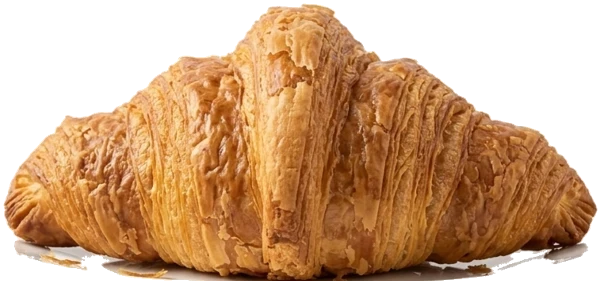
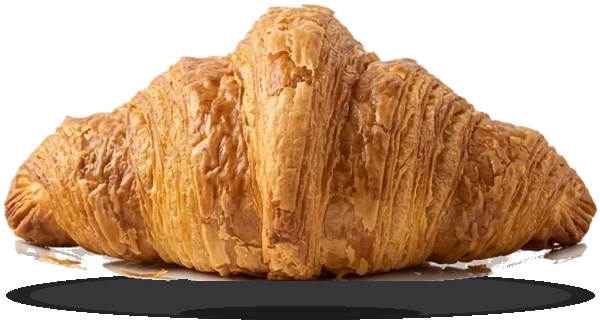
Transparent farang/iran mug handles and dark plate for croissant

diff --git a/src/components/FadeInImage.tsx b/src/components/FadeInImage.tsx
@@ -120,7 +120,7 @@ const CUTOUT_DIMENSIONS: Record<string, { width: number; height: number }> = {
   'tea.webp': { width: 523, height: 540 },
   'saffron-tea.webp': { width: 534, height: 540 },
   'eyvan_cortado.webp': { width: 798, height: 540 },
-  'eyvan_croissant_v2.webp': { width: 755, height: 355 },
+  'eyvan_croissant_v2.webp': { width: 755, height: 415 },
   'eyvan_chocolate_twist_v2.webp': { width: 957, height: 246 },
   'eyvan_chocolate_cheesecake_v3.webp': { width: 685, height: 439 },
   'eyvan_cake_of_day.webp': { width: 565, height: 540 },
@@ -180,7 +180,7 @@ const CUTOUT_FOOT_ASPECT: Record<string, number> = {
   'tea.webp': 0.61,
   'saffron-tea.webp': 0.62,
   'eyvan_cortado.webp': 0.6,
-  'eyvan_croissant_v2.webp': 1.907,
+  'eyvan_croissant_v2.webp': 1.67,
   'eyvan_chocolate_twist_v2.webp': 3.5,
   'eyvan_chocolate_cheesecake_v3.webp': 1.339,
   'eyvan_cake_of_day.webp': 0.82,
